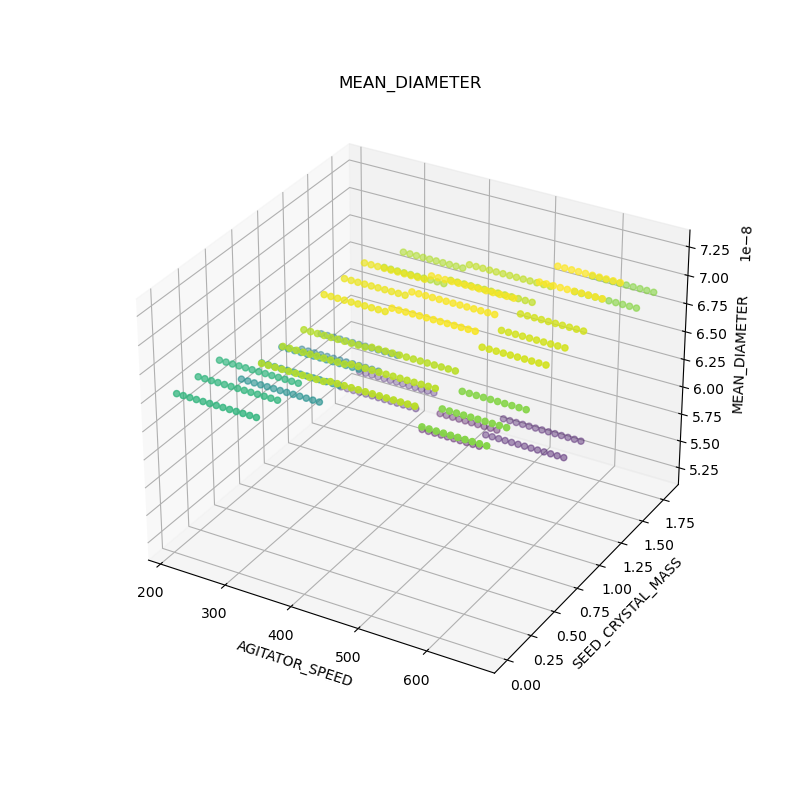
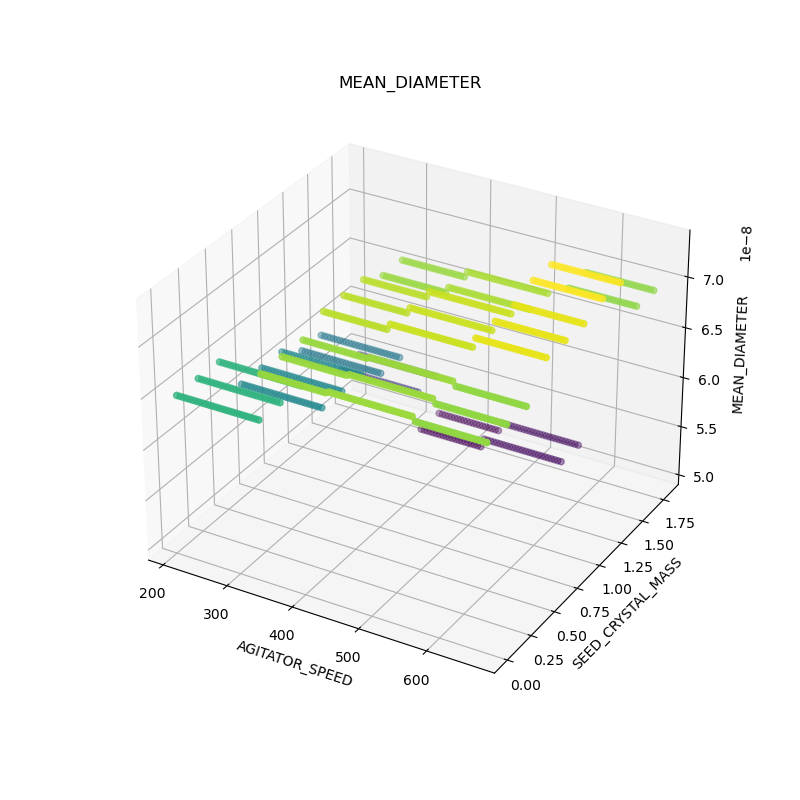
Add linear regression with interactions option as well

diff --git a/crystallization_example/run_crystallization_regression.py b/crystallization_example/run_crystallization_regression.py
@@ -1,7 +1,9 @@
-import os
-from pathlib import Path
 import pandas as pd
 from Regressions import RunRegression
+import statsmodels.api as sm
+from sklearn.preprocessing import PolynomialFeatures
+from sympy import *
+from gplearn.genetic import SymbolicRegressor
 
 __author__ = 'Michelle Aria Chung'
 
@@ -13,24 +15,35 @@ GROWTH_RATE = 'GROWTH_RATE'
 MEAN_DIAMETER = 'MEAN_DIAMETER'
 CRYSTALLIZER_POWER = 'CRYSTALLIZER_POWER'
 
+sympy_str_converter = {
+    'sub': lambda x, y: x - y,
+    'div': lambda x, y: x / y,
+    'mul': lambda x, y: x * y,
+    'add': lambda x, y: x + y,
+    'neg': lambda x: -x,
+    'pow': lambda x, y: x ** y,
+    'sin': lambda x: sin(x),
+    'cos': lambda x: cos(x),
+    'inv': lambda x: 1 / x,
+    'sqrt': lambda x: x ** 0.5
+}
+
 
 class CrystallizationRegression:
     def __init__(self, input_data_path):
         self.input_data = pd.read_csv(input_data_path)
 
         self.X = self.input_data[[AGITATOR_SPEED, SEED_CRYSTAL_MASS]]
-        self.Y = self.input_data[[YIELD, GROWTH_RATE, MEAN_DIAMETER, CRYSTALLIZER_POWER]]
+        self.Y = self.input_data[[YIELD, GROWTH_RATE, MEAN_DIAMETER]]
 
     def __call__(self):
-        lb_ls = [214, 0]
-        ub_ls = [665, 2]
-        step_size_ls = [10, 0.2]
+        lb_ls = [210, 0] # min is actually 214
+        ub_ls = [670, 2] # so that max is 665
+        step_size_ls = [5, 0.2]
 
-        # print('=' * 50)
-        #
-        # crystallization_linear_regression = RunRegression(self.X, self.Y, 'LinearRegression', plot_individual_bool=True)
-        # crystallization_linear_regression()
-        # crystallization_linear_regression.plot_optimized_maximum(lb_ls, ub_ls, step_size_ls)
+        # traditional way with interactions
+        # doing the y values individually
+        self.multiple_linear_regression_interactions()
 
         print('=' * 50)
 
@@ -45,6 +58,44 @@ class CrystallizationRegression:
                                                        plot_individual_bool=True)
         crystallization_linear_chained()
         crystallization_linear_chained.plot_optimized_maximum(lb_ls, ub_ls, step_size_ls)
+
+    def multiple_linear_regression_interactions(self):
+        # todo move to general Regressions class after this is made more scalable.
+        # Source: https://towardsdatascience.com/multiple-linear-regression-with-interactions-unveiled-by-genetic-programming-4cc325ac1b65
+
+        X = sm.add_constant(self.X)
+
+        for y_col in self.Y.columns:
+            # generate polynomial and interaction features
+            poly = PolynomialFeatures(interaction_only=True)
+            X_tr = poly.fit_transform(X)
+            interactions_only_df = pd.DataFrame(X_tr, columns=poly.get_feature_names()).drop(
+                ['1', 'x0', 'x1', 'x2', 'x0 x1', 'x0 x2'],
+                axis=1)
+            X_final = pd.concat([X, interactions_only_df], axis=1)
+
+            # refit with x1 x2 interactions
+            new_model = sm.OLS(self.Y[y_col], X_final)
+            new_result = new_model.fit()
+
+            print(new_result.summary())
+
+            # genetic programming to get the analytical equation
+            # function_set = ['add', 'sub', 'mul', 'div', 'cos', 'sin', 'neg', 'inv']
+            # X.drop('const', axis=1, inplace=True)
+            #
+            # est_gp = SymbolicRegressor(population_size=5000, function_set=function_set,
+            #                            generations=40, stopping_criteria=0.01,
+            #                            p_crossover=0.7, p_subtree_mutation=0.1,
+            #                            p_hoist_mutation=0.05, p_point_mutation=0.1,
+            #                            max_samples=0.9, verbose=1,
+            #                            parsimony_coefficient=0.01, random_state=0,
+            #                            feature_names=X.columns)
+            #
+            # est_gp.fit(X, self.Y[y_col])
+            # print('R2: ', est_gp.score(X, self.Y[y_col]))
+            # sympy_eqn = sympify(str(est_gp._program), locals=sympy_str_converter)
+            # print(sympy_eqn)
 
 
 if __name__ == '__main__':
